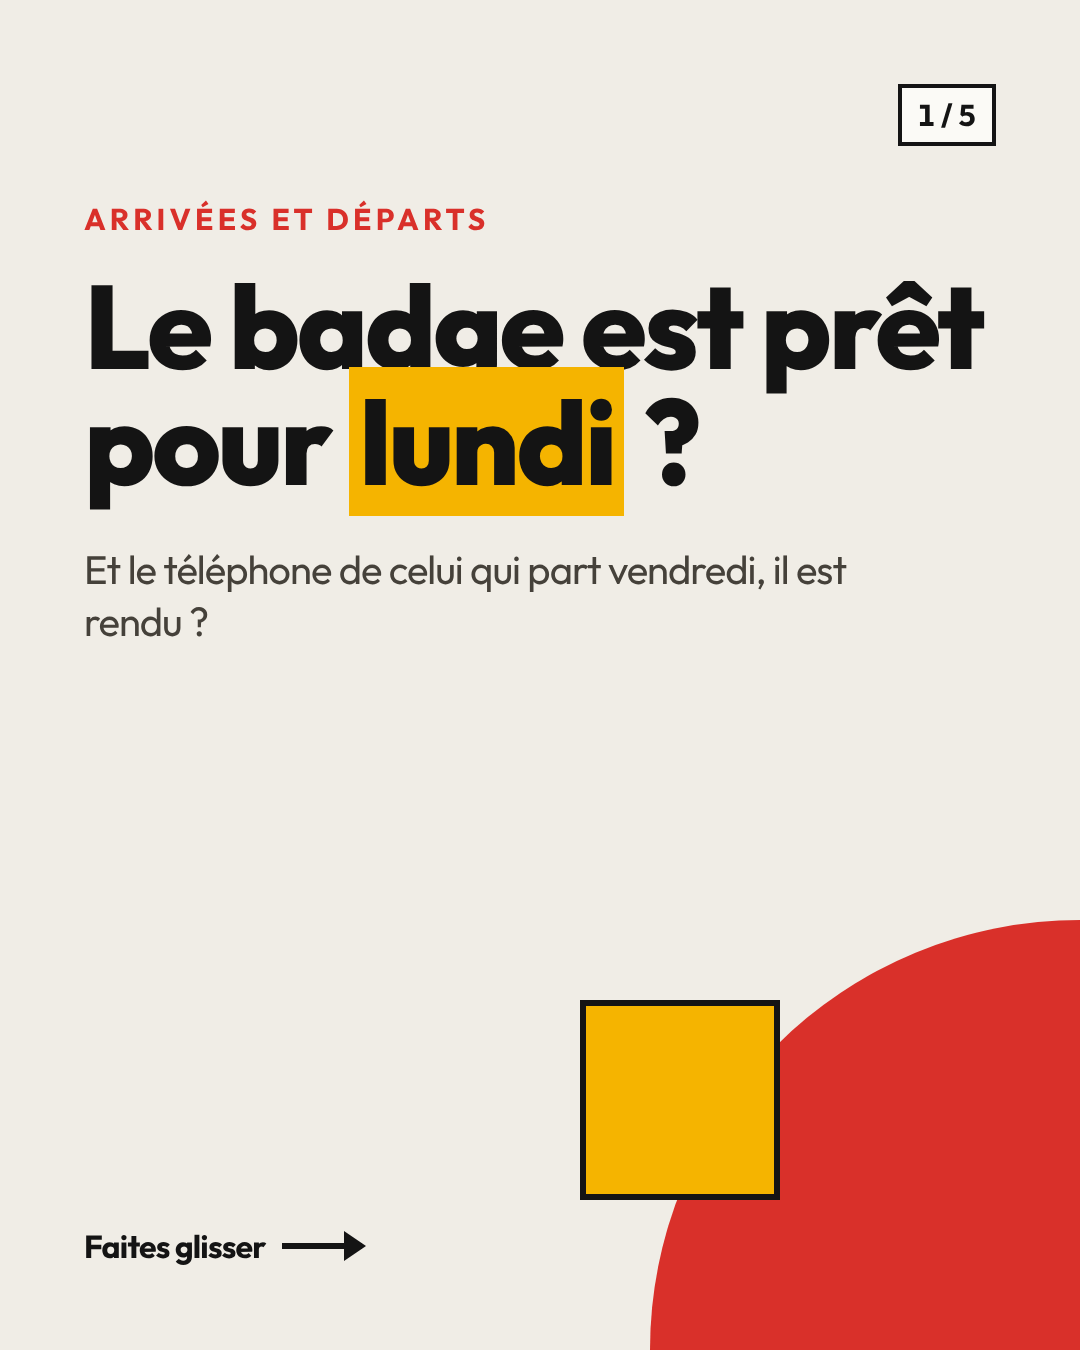
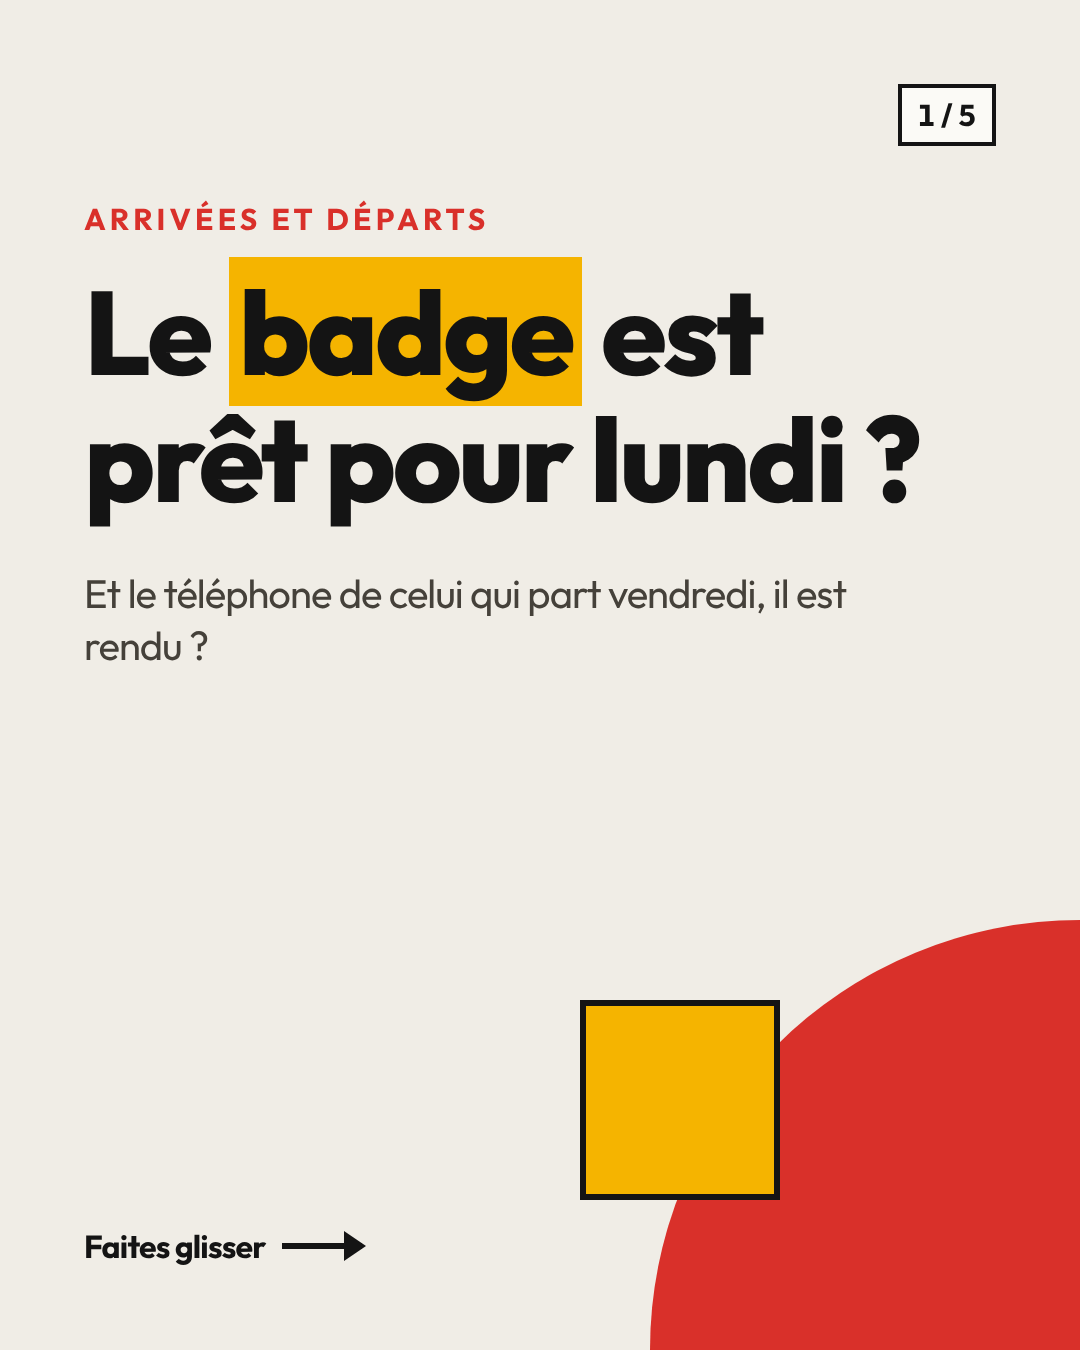
T46 Onboarding et offboarding salarié : application, tests, page catalogue, captures et communication
Claude-Session: https://claude.ai/code/session_0183EW539xByo77mPQoTkkwo

Changed region(s): [[0.0611, 0.1867, 0.9167, 0.4978]]

diff --git a/docs/templates/communication/onboarding/instagram/carrousel.html b/docs/templates/communication/onboarding/instagram/carrousel.html
@@ -27,7 +27,7 @@ h1,h2,p{letter-spacing:-.025em}
 
 /* Vue 1 : couverture-question (gabarit car-1) */
 #onboarding-1 .titre{position:absolute;left:84px;top:200px;right:84px}
-#onboarding-1 h1{font-size:118px;font-weight:800;line-height:.98}
+#onboarding-1 h1{font-size:118px;font-weight:800;line-height:1.08}
 #onboarding-1 h1 mark{background:var(--jaune);color:inherit;padding:0 10px}
 #onboarding-1 .sous{font-size:40px;line-height:1.3;color:var(--texte-2);margin-top:44px;max-width:780px}
 #onboarding-1 .fa{position:absolute;right:0;bottom:0;width:430px;height:430px;background:var(--rouge);border-top-left-radius:430px}
@@ -61,7 +61,7 @@ h1,h2,p{letter-spacing:-.025em}
 #onboarding-4 .bandeau{background:var(--jaune);color:var(--encre)}
 #onboarding-4 .bandeau .sourcil{color:var(--encre);opacity:.75}
 #onboarding-4 .fenetre{position:absolute;left:84px;right:84px;top:400px;height:420px;border:6px solid var(--encre);box-shadow:16px 16px 0 var(--encre);background:var(--surface);overflow:hidden}
-#onboarding-4 .fenetre img{position:absolute;width:1000px;left:-46px;top:-196px}
+#onboarding-4 .fenetre img{position:absolute;width:1300px;left:-62px;top:-300px}
 #onboarding-4 .points{position:absolute;left:84px;right:84px;top:900px;display:grid;grid-template-columns:1fr 1fr;gap:36px}
 #onboarding-4 .points div{font-size:30px}
 #onboarding-4 .points b{font-size:34px}
@@ -101,7 +101,7 @@ h1,h2,p{letter-spacing:-.025em}
   <span class="compteur">1 / 5</span>
   <div class="titre">
     <p class="sourcil" style="color:var(--rouge)">Arrivées et départs</p>
-    <h1 style="margin-top:30px">Le badge est prêt pour <mark>lundi</mark> ?</h1>
+    <h1 style="margin-top:30px">Le <mark>badge</mark> est prêt pour lundi ?</h1>
     <p class="sous">Et le téléphone de celui qui part vendredi, il est rendu ?</p>
   </div>
   <div class="fa"></div><div class="fb"></div>

diff --git a/docs/templates/communication/onboarding/prospects.md b/docs/templates/communication/onboarding/prospects.md
@@ -1,0 +1,61 @@
+# Prospects · Onboarding et offboarding salarié
+
+Segments et organisations à démarcher. Aucune donnée personnelle collectée : on cible des fonctions et des
+structures, on écrit à des adresses professionnelles publiques ou via LinkedIn. Les types d'organismes cités
+existent ; les réseaux nommés sont des réseaux nationaux connus, mais leur intérêt et le bon interlocuteur
+sont **à vérifier** au premier contact. Aucun n'a été contacté.
+
+Le produit se vend à des professionnels (B2B), à petit prix (19 €), souvent à la personne qui fait « les RH »
+sans en avoir le titre. Publication LinkedIn, prescripteurs (experts-comptables, réseaux d'entreprises) et
+affiliation Gumroad comptent plus que la prospection directe.
+
+Positionnement à tenir dans tous les messages : des **checklists prêtes et modifiables**, un responsable et
+une échéance par tâche, le matériel remis et rendu ; **données minimales**, **sans intégration** à un
+logiciel RH, achat unique. Pas d'outil de conformité : repères réglementaires datés « à vérifier ». Ne jamais
+promettre un gain de temps chiffré.
+
+## Priorité 1 · Acheteurs directs (B2B)
+
+| Segment | Pourquoi ils ont le problème | Où les trouver | Qui contacter (fonction) | Canal | Priorité |
+|---|---|---|---|---|---|
+| PME de 10 à 100 salariés sans SIRH | Quelques arrivées et départs par an, gérés de mémoire ou dans un tableur | LinkedIn (filtres taille d'entreprise), annuaires des CCI | Responsable RH, office manager, assistant(e) de direction | LinkedIn | Haute |
+| Entreprises avec postes terrain (maintenance, BTP, services) | Équipements de protection, véhicules, téléphones à remettre et récupérer | Fédérations professionnelles, salons régionaux | Responsable RH, responsable d'exploitation | LinkedIn, e-mail professionnel public | Haute |
+| Managers de proximité dans des ETI | Le manager porte l'accueil de son équipe, sans outil | LinkedIn | Manager d'équipe, responsable de site | LinkedIn | Moyenne |
+| Associations employeuses | Salariés, alternants et services civiques, peu de moyens RH | Réseaux associatifs régionaux | Direction, coordination | E-mail professionnel public | Moyenne |
+| Écoles et organismes accueillant des alternants | Arrivées groupées à la rentrée | — | Responsable administratif | E-mail | Basse |
+
+## Priorité 2 · Prescripteurs
+
+| Segment | Exemples (à vérifier) | Pourquoi | Qui contacter (fonction) | Approche | Canal |
+|---|---|---|---|---|---|
+| Cabinets d'expertise comptable avec service social (paie) | Cabinets locaux et régionaux | Font la paie et la DPAE de PME qui leur demandent « quoi d'autre ne pas oublier » | Responsable du pôle social | Démo, accès offert pour le cabinet, affiliation Gumroad | LinkedIn, e-mail professionnel public |
+| Consultants RH indépendants et RH à temps partagé | Indépendants « RH externalisée » | Outil prêt à déployer chez leurs clients PME | Le consultant | Affiliation + accès gratuit | LinkedIn |
+| Réseaux d'entreprises et clubs de dirigeants | Clubs locaux, groupements d'employeurs | Partage de bonnes pratiques entre dirigeants de PME | Animateur du réseau | Présentation courte, démo | E-mail, LinkedIn |
+| Chambres de commerce et d'industrie, chambres de métiers | Services d'appui RH aux TPE-PME (à vérifier selon chaque chambre) | Accompagnent les premières embauches | Conseiller entreprise ou RH | Démo ; ne proposer qu'un accès gratuit, sans démarche commerciale supposée | E-mail professionnel public |
+| Créateurs de contenu RH | Newsletters et comptes LinkedIn sur les RH en PME | Audience ciblée | Adresse professionnelle publique | Affiliation, accès gratuit, aucun contenu sponsorisé imposé | LinkedIn |
+
+## Priorité 3 · Partenaires (offrir ou intégrer le template)
+
+| Segment | Exemples (à vérifier) | Pourquoi | Qui contacter (fonction) | Approche |
+|---|---|---|---|---|
+| Groupements d'employeurs | Groupements locaux | Salariés partagés entre plusieurs entreprises, arrivées fréquentes | Direction du groupement | Lot de codes à tarif de groupe, à étudier |
+| Intégrateurs ou revendeurs de matériel informatique pour PME | Prestataires locaux d'infogérance | Le matériel remis et rendu est leur sujet ; complément de T45 (parc de postes) quand il sera en vente | Responsable commercial | Pack T45 + T46 à étudier une fois T45 publié |
+
+## Calendrier conseillé
+
+- **Fin août et septembre** : rentrée, arrivées des alternants et stagiaires.
+- **Janvier** : recrutements de début d'année et départs de fin d'année à clôturer.
+- **Juin** : fins de contrats d'alternance et de stages.
+
+## Message d'approche type (prescripteur, 3 lignes)
+
+> Bonjour, j'ai conçu un outil simple pour les arrivées et départs de salariés en PME : checklists par
+> profil, un responsable et une échéance par tâche, matériel remis et rendu, données minimales. Je vous
+> propose un accès gratuit pour l'essayer avec vos clients : https://qm-engineering.fr/templates/onboarding/?demo
+
+## À vérifier avant tout contact
+
+- Ce qu'une chambre consulaire ou un cabinet peut recommander comme outil payant : ne proposer qu'un accès
+  gratuit et une démo, sans contrepartie.
+- Le programme d'affiliation Gumroad (taux, conditions) au moment de le proposer.
+- La disponibilité de T45 avant toute offre groupée.

diff --git a/docs/templates/communication/onboarding/instagram.md b/docs/templates/communication/onboarding/instagram.md
@@ -1,0 +1,64 @@
+# Publication Instagram · Onboarding et offboarding salarié
+
+Carrousel de 5 vues (1080 × 1350) au gabarit des posts template (`car-1`, `car-2`, `car-3` de
+`../instagram/gabarits.html`), vue 5 avec renvoi au sur mesure. Kit : `../instagram/README.md`.
+Source : `instagram/carrousel.html`, rendue par
+`node docs/templates/communication/instagram/rendre.mjs ../onboarding/instagram/carrousel.html`
+(PNG déplacés ensuite dans `instagram/`). Visuels : `instagram/onboarding-1.png` … `-5.png`, regardés le
+13/11/2026. Titre interne proposé pour le planning : **« T46 · Onboarding et offboarding salarié »**.
+
+- À publier le lendemain de la publication LinkedIn, à 18:30 (planning Instagram, pas encore planifié).
+- Prix 19 € d'après `IDEES.md`, **non vérifié** : fiche Gumroad pas encore en ligne le 13/11/2026. Ne
+  publier que si la fiche est en ligne à la date prévue, sinon décaler.
+- Faits repris de `linkedin.md` et de l'application uniquement (89 tâches, 5 profils, J-15 à J+90).
+
+## Vues
+
+1. Couverture-question (papier) : « Le badge est prêt pour lundi ? » / Et le téléphone de celui qui part
+   vendredi, il est rendu ?
+2. Le problème (fond encre) : Trois ou quatre arrivées par an : assez pour oublier.
+3. Ce que fait le template (bandeau bleu, capture téléphone `templates-onboarding-tel.webp`, 3 points) :
+   Chaque tâche a un responsable et une date.
+4. La vue clé (bandeau jaune, extrait de `templates-onboarding-semaine.webp`) : Qui doit faire quoi cette
+   semaine.
+5. Appel à l'action (fond jaune), 19 €, renvoi au sur mesure.
+
+## Accroches (première ligne de la légende)
+
+- **Variante A (retenue)** : Le badge est prêt pour lundi ? Et le téléphone de celui qui part vendredi ?
+- **Variante B** : Une arrivée, c'est une vingtaine de petites tâches. Chacune a son moment.
+
+## Textes alternatifs
+
+1. Titre « Le badge est prêt pour lundi ? » sur fond clair, le mot badge surligné en jaune, sous-titre « Et le téléphone de celui qui part vendredi, il est rendu ? », formes géométriques rouge et jaune.
+2. Fond noir : Trois ou quatre arrivées par an, assez pour oublier. Une vingtaine de tâches par arrivée, partagées entre RH, manager, informatique et services généraux, chacune avec son moment, et autant au départ.
+3. Le template Onboarding et offboarding salarié : chaque tâche a un responsable et une date. Capture sur téléphone du tableau de bord avec les parcours en cours, les retards, les tâches de la semaine et le matériel non rendu. 89 tâches types en 5 profils, échéances de J-15 à J+90, modèles modifiables. Données fictives.
+4. Qui doit faire quoi cette semaine : capture de la liste des tâches par responsable, RH puis manager, avec les retards signalés en rouge. Le matériel remis à l'arrivée et rendu au départ, sinon alerte. Données fictives.
+5. Fond jaune : essayez-le avec une PME fictive, démo libre sans inscription, données minimales sans logiciel RH, achat unique à 19 €. Besoin de plus ? Version sur mesure. Lien en bio.
+
+## Légende retenue
+
+Le badge est prêt pour lundi ? Et le téléphone de celui qui part vendredi ?
+
+Dans une PME, on accueille quelqu'un trois ou quatre fois par an : assez pour oublier chaque fois une étape différente.
+
+L'Onboarding et offboarding salarié :
+▪ crée la checklist de chaque arrivée ou départ depuis des modèles par profil, chaque tâche avec son responsable et son échéance, de J-15 à J+90 ;
+▪ montre ce que chaque responsable doit faire cette semaine, les retards en tête ;
+▪ suit le matériel remis à l'arrivée et signale ce qui n'est pas rendu au départ.
+
+89 tâches types, modèles modifiables. Données minimales, sans logiciel RH. Achat unique, 19 €.
+
+Besoin de plus ? Vos règles, vos utilisateurs, vos outils : je construis la version sur mesure.
+
+Démo libre et contact : lien en bio.
+
+#PME #Organisation #RessourcesHumaines #Onboarding #OutilsNumériques
+
+## Story d'annonce
+
+Stories suspendues depuis le 13/11/2026 (voir le kit : Instinct ne peut pas en publier). Si elles reprennent :
+gabarit `story` du kit, titre « Arrivées et départs, sans oubli », capture `templates-onboarding-tel.webp`,
+mention « Données fictives », autocollant lien vers https://qm-engineering.fr/templates/onboarding/?demo
+(texte « Essayer la démo »). Texte alternatif : « Story : Arrivées et départs, sans oubli. Capture du tableau
+de bord de l'onboarding sur téléphone, données fictives. Lien vers la démo. »
